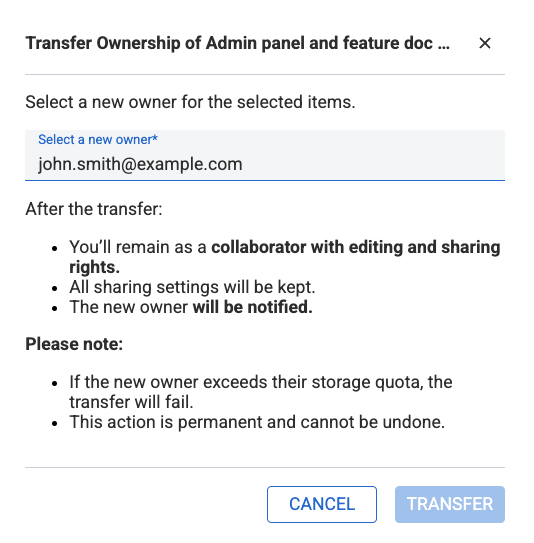
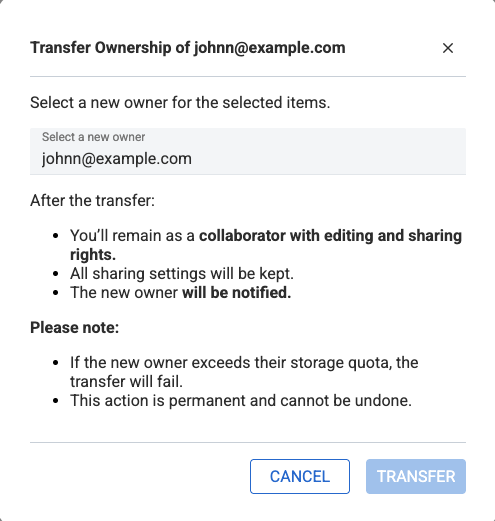
Updated Transfer Ownership of files or folder.

diff --git a/source/carbonio/files/toc.rst b/source/carbonio/files/toc.rst
@@ -656,7 +656,7 @@ On the recipient’s account:
 * A notification badge appears in the **Files** module.  
 * A badge also appears in the **Notifications** panel.  
 * The recipient receives a message such as:  
-  ``john.smith@example.com transferred ownership of items to you. You’ll find them in folder john.smith@example.com.``  
+  ``johnn@example.com transferred ownership of items to you. You’ll find them in folder johnn@example.com.``  
 * A folder named after the previous owner’s e‑mail address is created and contains the transferred items.
   
     .. image:: /img/transfer-ownership-notification.png
@@ -673,8 +673,8 @@ The folder behaves like any standard folder: all normal file and folder actions 
 If the same user receives several ownership transfers from the same owner at different times,
 Carbonio creates separate folders with unique names, example:
 
-* `john.smith@example.com`  
-* `john.smith@example.com (1)`
+* `johnn@example.com`  
+* `johnn@example.com (1)`
 
 This avoids naming conflicts and keeps each transfer independent.
 
